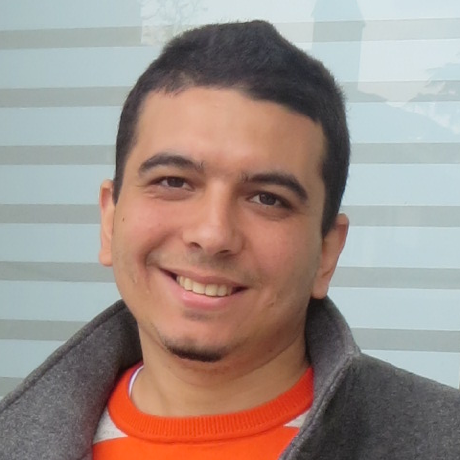
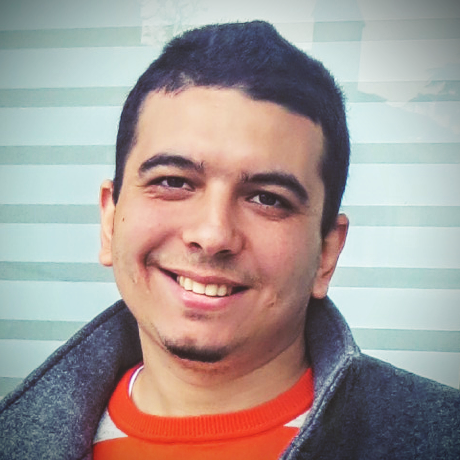
Added a new post on Docker Edited site theming, fonts, etc Modified profile photo

diff --git a/_sass/_basscss.scss b/_sass/_basscss.scss
@@ -1,3 +1,4 @@
+@charset "UTF-8";
 /*!
 
   BASSCSS
@@ -9,17 +10,17 @@
 
 */
 
-@import 'basscss/base-buttons';
-@import 'basscss/base-forms';
-@import 'basscss/base-reset';
-@import 'basscss/base-typography';
+@import 'basscss/_base-buttons';
+@import 'basscss/_base-forms';
+@import 'basscss/_base-reset';
+@import 'basscss/_base-typography';
 
-@import 'basscss/buttons-blue';
+@import 'basscss/_buttons-blue';
 
-@import 'basscss/syntax-highlighting';
-@import 'basscss/color-base';
-@import 'basscss/colors';
+@import 'basscss/_syntax-highlighting';
+@import 'basscss/_color-base';
+@import 'basscss/_colors';
 
-@import 'basscss/utility-headings';
-@import 'basscss/utility-typography';
-@import 'basscss/utility-white-space';
+@import 'basscss/_utility-headings';
+@import 'basscss/_utility-typography';
+@import 'basscss/_utility-white-space';

diff --git a/_includes/head.html b/_includes/head.html
@@ -13,8 +13,7 @@
     <link rel="stylesheet" href="{{ "/css/pixyll.css" | prepend: site.baseurl }}?{{ site.time | date: "%Y%m%d%H%M" }}" type="text/css">
 
     <!-- Fonts -->
-    <link href='//fonts.googleapis.com/css?family=Merriweather:900,900italic,300,300italic' rel='stylesheet' type='text/css'>
-    <link href='//fonts.googleapis.com/css?family=Lato:900,300' rel='stylesheet' type='text/css'>
+    <link href='https://fonts.googleapis.com/css?family=Open+Sans' rel='stylesheet' type='text/css'>
     {% if site.show_social_icons or site.show_sharing_icons %}
       <link href="//maxcdn.bootstrapcdn.com/font-awesome/4.4.0/css/font-awesome.min.css" rel="stylesheet">
     {% endif %}

diff --git a/_includes/share_buttons.html b/_includes/share_buttons.html
@@ -1,7 +1,5 @@
-<div class="share-page">
+<div class="share-buttons">
   {{ site.share_text }}
-
-  <div class="share-links">
     {% if site.share_facebook %}
       <a class = "fa fa-facebook" href="https://facebook.com/sharer.php?u={{ site.url }}{{ page.url }}" rel="nofollow" target="_blank" title="Share on Facebook"></a>
     {% endif %}
@@ -37,7 +35,4 @@
     {% if site.share_hackernews %}
       <a class = "fa fa-hacker-news" onclick="parent.postMessage('submit','*')" href="https://news.ycombinator.com/submitlink?u={{ site.url }}{{ page.url }}&t={{ page.title }}" rel="nofollow" target="_blank" title="Share on Hacker News"></a>
     {% endif %}
-
-
-  </div>
 </div>

diff --git a/_sass/_variables.scss b/_sass/_variables.scss
@@ -1,13 +1,13 @@
 // Typography
 $base-font-size: 14px !default;
 $bold-font-weight: bold !default;
-$font-family: 'Merriweather', 'PT Serif', Georgia, 'Times New Roman', serif !default;
+$font-family: 'Open Sans', sans-serif !default;
 $line-height: 1.5 !default;
-$heading-font-family: 'Lato', 'Helvetica Neue', Helvetica, sans-serif !default;
+$heading-font-family: 'Open Sans', sans-serif !default;
 $heading-font-weight: 900 !default;
 $heading-line-height: 1.25 !default;
 $monospace-font-family: 'Source Code Pro', Consolas, monospace !default;
-$h1: 2.998rem !default;
+$h1: 2rem !default;
 $h2: 1.5rem !default;
 $h3: 1.25rem !default;
 $h4: 1rem !default;

diff --git a/_sass/_posts.scss b/_sass/_posts.scss
@@ -20,15 +20,21 @@
   color: #333;
 }
 
+.share-buttons {
+  font-weight: bold;
+  margin-top: 3rem;
+  text-align: center;
+}
+
 .post-footer {
   @extend .italic;
 
-  margin-top: .75rem;
+  margin-top: .5rem;
   text-align: center;
 }
 
 .post-footer .avatar {
-  margin: 2rem 0;
+  margin: 0.5rem 0;
   width: 100px;
   border-radius: 50%;
 }

diff --git a/_includes/header.html b/_includes/header.html
@@ -1,7 +1,7 @@
 <header class="site-header px2 px-responsive">
   <div class="mt2 wrap">
     <div class="measure">
-      <a href="{{ site.baseurl }}" class="site-title">{{ site.title }}</a>
+      <a href="{{ site.url }}" class="site-title">{{site.title}}</a>
       <nav class="site-nav">
         {% include navigation.html %}
       </nav>

diff --git a/_sass/_animations.scss b/_sass/_animations.scss
@@ -4,6 +4,7 @@ Licensed under the MIT license - http://opensource.org/licenses/MIT
 
 Copyright (c) 2014 Daniel Eden
 */
+@charset "UTF-8";
 
 .animated {
   -webkit-animation-duration: 1s;

diff --git a/_posts/2016-01-16-docker-liferay-virtualbox.md b/_posts/2016-01-16-docker-liferay-virtualbox.md
@@ -1,0 +1,197 @@
+---
+title: "Setup a docker environment for Liferay with MySQL inside a VirtualBox VM"
+description: "How to setup a docker environment for Liferay with MySQL inside a VirtualBox VM"
+layout: post
+comments: true
+date: 2016-01-16
+categories:
+permalink: "docker-liferay-virtualbox"
+tags: [docker, liferay, virtualbox]
+---
+#What is Docker?
+Docker is a tool that packages an application and its dependencies in a virtual container that can run on any Linux server (The linux server would run inside a virtual machine on OS X and Windows environments).
+
+Docker has been gaining momentum since it was first released two years ago. It commoditized operating system virtualization by providing an abstraction layer over <a href="https://linuxcontainers.org" target="_blank">LXC</a>. Docker is very useful to quickly recreate identical development environements on any machine, simply using container images. The main advantage of OS virtualization, as opposed to hardware virtualization using virtual machines, is that containers are a thin isolated layer that shares the host OS's binaries and libraries, resulting in minimal overhead.
+
+Each docker container would run one process. Multiple containers can be linked together to setup a full environment.
+In the following example we will be setting up a liferay environment with a container for Liferay's webapp, linked to a container for a MySQL database server. Each container uses a data volume to persist data.  
+The setup can instantiate a vanilla liferay instance, but it can also be tweaked to use an existing database and existing liferay data.
+
+#Using Docker in a non-Linux environment
+Docker provides a 'Docker Machine' for OS X and Windows to host a Linux virtual machine that runs docker. However, we won't be using that Docker Machine, but we will set up our own Arch Linux VM and configure networking to enable access to the services running on docker containers from our Windows host.
+
+#Setup docker inside an Arch Linux VM
+Installing docker on a Linux system is pretty easy.  
+In Arch Linux, we install the docker package with pacman
+{% highlight bash%}sudo pacman -S docker{% endhighlight %}
+and start the docker service
+{% highlight bash%}sudo systemctl start docker{% endhighlight %}
+The service can be set to start automatically when the system starts
+{% highlight bash%}sudo systemctl enable docker{% endhighlight %}
+
+#Create the docker containers
+The docker image definitions and the file resources used in our setup are available in <a href="https://github.com/jihedamine/docker-liferay" target="_blank">this repository</a>
+
+##MySQL
+We will begin by creating a MySQL container that will run the MySQL server process and serve as a DBMS for Liferay.  
+
+###Create a data volume for MySQL data
+A separate data volume will be used by the MySQL server to store data.
+Using separate data volumes to store data has several advantages among which separating specific data from generic container images, keeping the container image size small, reusing the same data across multiple containers, etc. More details on data volumes can be found in <a href="https://docs.docker.com/engine/userguide/dockervolumes/" target="_blank">docker's documentation</a>.
+
+Docker's create command creates a new container. 
+{% highlight bash%}
+sudo docker create --name mysqldata_1 -v ${PWD}/volumes/mysqldata busybox
+{% endhighlight %}
+We name this container mysqldata_1, we bind the folder under the current directory/volumes/mysqldata as a volume and we use the busybox docker image to create our container instance.  
+busybox is a minimal linux image (about 2.5 Mb in size) which combines tiny versions of many common Unix utilities. That image would be enough for us to create a data volume.
+
+###Create the MySQL server container
+We now run a MySQL server that will use the previously created data volume.
+{% highlight bash%}
+sudo docker run -t --name mysql_1 -e MYSQL_ROOT_PASSWORD=secret --volumes-from mysqldata_1 --publish 0.0.0.0:3306:3306 -d mysql:5.5
+{% endhighlight %}
+Docker's run command executes a command inside a new container and is equivalent to create followed by run. Here we create a shell container with the -t option and keep the container running in the background with the -d option.    
+-t allocates a pseudo-TTY  
+--name gives a name to the container (we name this container mysql_1)  
+-e is used to set environment variables. Here we set the MYSQL_ROOT_PASSWORD, which is an environment variable used by the mysql docker image to set the MySQL root user's password.  
+--publish publishes the container's port(s) to the host. Here we publish port 3306 to any interface (0.0.0.0) listening on port 3306. We publish to all interfaces to be able to connect to the MySQL server from our Windows host. If we have listened only to requests on localhost:3306, we would only be able to access the MySQL server from inside our Arch VM.  
+-d makes the container run in background as we want the MySQL server to keep running after issuing the docker run command.  
+Finally, we specify the docker image we'll use to create the container. The <a href="https://hub.docker.com/_/mysql" target="_blank">mysql image</a> is a public Docker image available on the Docker Hub. The image's docker hub page has an exhaustive description explaining how to use that image.  
+We specify the version of the image to use with \<image-name\>:\<version\>. Here, we are using the 5.5 version of the mysql image. If we don't specify a version, the latest one is used.
+
+###List docker images and containers
+At this point, we can list the docker images available on our machine 
+{% highlight bash%}
+> sudo docker images
+REPOSITORY           TAG                 IMAGE ID            CREATED             VIRTUAL SIZE
+mysql                5.5                 2b737bd9d030        9 days ago          256.4 MB
+busybox              latest              c51f86c28340        4 weeks ago         1.109 MB
+{% endhighlight %}
+as well as the containers (which are container instances made from the container images)
+{% highlight bash%}
+> sudo docker ps -a
+CONTAINER ID    IMAGE       COMMAND                  CREATED          STATUS                      PORTS                    NAMES
+f2d9b7b5c0e3    mysql:5.5   "/entrypoint.sh mysql"   58 seconds ago   Up 57 seconds               0.0.0.0:3306->3306/tcp   mysql_1
+f02b2760d37b    busybox     "sh"                     6 weeks ago      Exited (0) 42 seconds ago                            mysqldata_1
+{% endhighlight %}
+The -a option makes docker display all existing containers including those that were stopped
+
+###Inspect containers
+We can inspect a container (see its properties) with the command docker inspect \<container-name\>. 
+To get the IPAddress of our mysql_1 container, we would grep the inspect command's results having the string 'IPAddress'.
+{% highlight bash%}
+> sudo docker inspect mysql_1 | grep IPAddress
+ "SecondaryIPAddresses": null,
+        "IPAddress": "172.17.0.2",
+                "IPAddress": "172.17.0.2",
+{% endhighlight %}
+
+###Populate the MySQL database for Liferay
+Having started a MySQL server, we will now create a sql file with instructions to create a DB user and a database for Liferay, minimally with the following content. 
+{% highlight bash%}
+create user lportal identified by 'lportal';
+create database lportal CHARACTER SET utf8 COLLATE utf8_general_ci;
+grant all privileges on lportal.* to lportal;
+flush privileges;
+{% endhighlight %}
+We could also add the Liferay tables creation scripts as well as import some data in these tables in the initdb.sql file. 
+
+The SQL file is imported in our MySQL server running in the mysql_1 container and persisting data in the mysqldata_1 data volume:
+{% highlight bash%}
+sudo docker exec -i mysql_1 mysql -uroot -psecret < initdb.sql
+{% endhighlight %}
+
+##Liferay
+Now that we have a MySQL database ready for Liferay, we will create the Liferay docker image itself.
+  
+###Create a data volume for Liferay data
+Similarly to the data volume used to persist the MySQL server's data, a second data volume will be used to persist our liferay container's data. The Liferay data volume is also based on the tiny linux image of busybox.
+
+{% highlight bash%}
+sudo docker run -v ${PWD}/volumes/liferaydata:/opt/liferay-portal/data --name liferaydata_1 busybox
+{% endhighlight %}
+
+###Create the Liferay image
+A docker image, like the Liferay image we will create, is defined using a Dockerfile. To quote the official Docker documentation, a Dockerfile is "a text document that contains all the commands a user could call on the command line to assemble an image". 
+
+The Dockerfile of our Liferay image is based on an Oracle JDK Docker image. It downloads Liferay, unzips and installs it, then adds configuration files, exposes the 8080 port and defines a data volume in /opt/liferay-portal/data folder. 
+
+The full content of the Dockerfile is as follows:
+{% highlight bash%}
+# Based on oracle-jdk 1.7 from airdock
+FROM airdock/oracle-jdk:1.7
+
+# Install unzip
+RUN apt-get update && apt-get install -y unzip
+
+# Download and install liferay
+RUN curl -OL http://downloads.sourceforge.net/project/lportal/Liferay%20Portal/6.2.3%20GA4/liferay-portal-tomcat-6.2-ce-ga4-20150416163831865.zip
+RUN unzip liferay-portal-tomcat-6.2-ce-ga4-20150416163831865.zip -d /opt
+RUN rm liferay-portal-tomcat-6.2-ce-ga4-20150416163831865.zip
+
+RUN ln -s /opt/liferay-portal-6.2-ce-ga4 /opt/liferay-portal
+RUN ln -s /opt/liferay-portal/tomcat-7.0.42 /opt/liferay-portal/tomcat
+
+# Add configuration files
+ADD resources/portal-ext.properties /opt/liferay-portal/portal-ext.properties
+ADD resources/portal-setup-wizard.properties /opt/liferay-portal/portal-setup-wizard.properties
+ADD resources/setenv.sh /opt/liferay-portal/tomcat/bin/setenv.sh
+
+# Liferay data will be stored in a separate data volume
+VOLUME /opt/liferay-portal/data
+
+# Expose port 8080
+EXPOSE 8080
+
+# Set JAVA_HOME
+ENV JAVA_HOME /usr/lib/jvm/java-7-oracle/
+
+# Execute liferay
+ENTRYPOINT ["/opt/liferay-portal/tomcat/bin/catalina.sh"]
+CMD ["run"]
+{% endhighlight %}
+
+###Run the Liferay image
+We build the Liferay image using the Dockerfile previously defined. Next, we run that image, linking it to the mysql_1 container that is executing the MySQL server, and using the liferaydata_1 data volume to store liferay's data.
+
+{% highlight bash%}
+sudo docker build -t liferay liferay/.
+sudo docker run --name liferay_1 -it -v /tmp/deploy:/opt/liferay-portal/deploy --volumes-from liferaydata_1 --link mysql_1:mysql --publish 0.0.0.0:8080:8080 -d liferay
+{% endhighlight %}
+
+Some of the options passed to the run command:  
+-i keeps STDIN open even if not attached. -i and -t (also written -it) must be used together to allocate a tty for interactive processes.  
+-v creates a bind mount with \<host-dir:container-dir\>  
+--volumes-from mounts all volumes from the given container(s)   
+--link adds a link to another container 
+
+Once the Liferay server container is started, we can connect to it with a shell session
+{% highlight bash%}
+sudo docker exec -it liferay_1 bash
+{% endhighlight %}
+
+#Connect from the Windows host
+Now that the containers are running in our Arch Linux VirtualBox image, we need to setup port forwarding to be able to get, from our Windows host, to the ports for which the Liferay and MySQL servers are listening.
+
+##Setup port forwarding
+In VirtualBox manager, we open the Arch Linux VM settings, and go to the Network options. 
+From there, we setup a NAT network adapter.
+<image src="/images/docker-liferay-virtualbox/portForwarding.png" alt="VirtualBox port forwarding"/>
+Clicking on "Port Forwarding", we can setup port forwarding rules.  
+The following rules state that every request going to the ports 8080 and 3306 on our Windows localhost will be forwarded to the ports 8080 (tomcat server running Liferay) and 3306 (MySQL server), respectively, on the virtual machine.
+<image src="/images/docker-liferay-virtualbox/portForwarding2.png" alt="VirtualBox port forwarding"/>
+More information on VirtualBox's Networking and the NAT mode can be found <a href="https://www.virtualbox.org/manual/ch06.html#network_nat" target="_blank">here</a>.
+
+##Connect to MySQL database from host
+We can check that the MySQL server is up and that it is accessible from the Windows host by connecting to a localhost MySQL server on port 3306, using any MySQL client on the Windows host.
+<image src="/images/docker-liferay-virtualbox/mysql-access.png" alt="Connect to the MySQL server from host"/>
+
+##Connect to Liferay webapp from host
+We can also get to the Liferay webapp from the Windows host by connecting to its port 8080 from a web browser. The request will be forwarded to the port 8080 of the Arch Linux VM, where the Liferay container is listening to all the requests coming to port 8080. 
+<image src="/images/docker-liferay-virtualbox/liferay-access.png" alt="Connect to the MySQL server from host"/>
+
+#Wrap-up
+In this article, we have setup docker inside an Arch Linux VM running on a Windows host. Then, we created data volumes to store MySQL and Liferay data, as well as a MySQL container and a Liferay container linked to it. After that, we setup port forwarding in our Arch Linux VM to be able to get to the Docker containers from the Windows host.
+
+You are welcome to have a look at the <a href="https://github.com/jihedamine/docker-liferay" target="_blank">project files</a> and contribute with your comments below.
